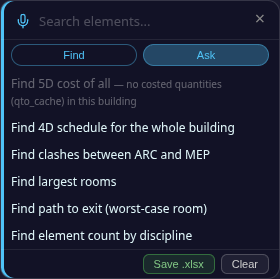
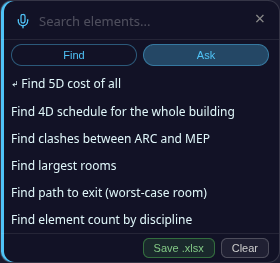
docs(AskFirstSteps): add the cost step — live cost now works (bim-ootb #1816, §K.1) (#165)
Re-captured live on Terminal: §PATCH_QTO applied 161 rows; "cost MEP" lists exactly the four cost
sentences; "Find 5D cost of materials for MEP" = 2,038,000 (62 cost rows, 9,733 elements), equal
to SUM(material_cost) over the live Terminal_extracted.db MEP rows.

Claude-Session: https://claude.ai/code/session_013GntdQuxdqS9DUqUmQP5Rb

diff --git a/scripts/docs_capture_ask_first_steps.js b/scripts/docs_capture_ask_first_steps.js
@@ -66,30 +66,37 @@ const report = { url: URL_, at: new Date().toISOString(), steps: {} };
     report.steps.ask = await page.evaluate(() => Array.from(document.querySelectorAll('#find-ask-catalog .ask-q')).map(e => e.textContent));
     log('§DOCS_STEP3 ' + JSON.stringify(report.steps.ask));
     await shot('3-ask-list', '#find-panel');
-    // Step 4 — type "clash ARC MEP", click "Find clashes between ARC and MEP"
+    // Step 4 — type "cost MEP", click "Find 5D cost of materials for MEP" (needs the §K.1 cost patch live)
+    report.steps.costList = await type('cost MEP');
+    log('§DOCS_STEP4 ' + JSON.stringify(report.steps.costList));
+    await shot('4-cost-list', '#find-panel');
+    report.steps.cost = await runSentence('Find 5D cost of materials for MEP');
+    log('§DOCS_STEP4b ' + JSON.stringify(report.steps.cost));
+    await shot('5-cost-card', '#find-panel');
+    // Step 5 — type "clash ARC MEP", click "Find clashes between ARC and MEP"
     report.steps.clashList = await type('clash ARC MEP');
-    log('§DOCS_STEP4 ' + JSON.stringify(report.steps.clashList));
-    await shot('4-clash-list', '#find-panel');
+    log('§DOCS_STEP5 ' + JSON.stringify(report.steps.clashList));
+    
     report.steps.clash = await runSentence('Find clashes between ARC and MEP');
-    log('§DOCS_STEP4b ' + JSON.stringify(report.steps.clash));
-    await shot('5-clash-card', '#find-panel');
+    log('§DOCS_STEP5b ' + JSON.stringify(report.steps.clash));
+    await shot('6-clash-card', '#find-panel');
     // Step 5 — type "exit", click the worst-case sentence
     report.steps.exitList = await type('exit');
     report.steps.exit = await runSentence('Find path to exit (worst-case room)');
     log('§DOCS_STEP5 ' + JSON.stringify(report.steps.exit));
-    await shot('6-exit-card', '#find-panel');
+    await shot('7-exit-card', '#find-panel');
     // Step 6 — type "schedule", click the whole-building sentence (generates the 4D timeline)
     report.steps.schedList = await type('schedule');
     report.steps.sched = await runSentence('Find 4D schedule for the whole building');
     log('§DOCS_STEP6 ' + JSON.stringify(report.steps.sched));
-    await shot('7-schedule-card', '#find-panel');
+    await shot('8-schedule-card', '#find-panel');
     // Step 7 — Save .xlsx
     await page.click('#find-ask-save');
     let file = null;
     for (let i = 0; i < 120 && !file; i++) { await new Promise(r => setTimeout(r, 500)); file = fs.readdirSync(dl).find(f => f.endsWith('.xlsx')); }
     report.steps.saved = file ? { file, bytes: fs.statSync(path.join(dl, file)).size } : null;
     log('§DOCS_STEP7 ' + JSON.stringify(report.steps.saved));
-    await shot('8-save', '#find-panel');
+    await shot('9-save', '#find-panel');
     fs.writeFileSync(path.join(ROOT, 'scripts', 'docs_capture_ask_first_steps.report.json'), JSON.stringify(report, null, 1));
     log('§DOCS_DONE ok');
   } catch (e) { log('§DOCS_FAIL ' + (e && e.stack || e)); process.exitCode = 1; }

diff --git a/docs/AskFirstSteps.md b/docs/AskFirstSteps.md
@@ -1,7 +1,7 @@
 # Viewer Ask — First Steps (5 minutes, no experience needed)
 *[← Back to the **BIM Viewer guide**](BIMUserGuide.md) · [Home](index.md)*
 
-One small job, start to finish: **open a building, ask three questions, save the answers, hand them to
+One small job, start to finish: **open a building, ask four questions, save the answers, hand them to
 your own AI.** Use a desktop browser (Chrome or Edge). Every step below was run by a script against the
 live site and the numbers quoted are what the app itself reported.
 
@@ -22,37 +22,43 @@ The **Find** panel opens on the right.
 
 ### Step 3 — Click **Ask**
 
-A list of questions appears. Greyed lines are not available for this building.
+A list of questions appears. Greyed lines are not available for that building.
 
 ![Ask: one question per line](img/viewer/ask-first-steps-3-ask-list.png)
 
-### Step 4 — Type `clash ARC MEP`, click the line
+### Step 4 — Type `cost MEP`, click **Find 5D cost of materials for MEP**
 
-The list narrows to **Find clashes between ARC and MEP**. Click it. An answer card appears:
-*114 mesh-level clashes (200 box overlaps: 86 cleared by the shape tests).*
+The list narrows to four cost lines (all, materials, labour, equipment). Click *materials*. An answer card
+appears: *2,038,000 — materials, 9,733 elements in 62 cost rows.*
 
-![The list narrowed to one question](img/viewer/ask-first-steps-4-clash-list.png)
-![The clash answer card](img/viewer/ask-first-steps-5-clash-card.png)
+![Four cost lines for MEP](img/viewer/ask-first-steps-4-cost-list.png)
+![The cost answer card](img/viewer/ask-first-steps-5-cost-card.png)
 
-### Step 5 — Type `exit`, click **Find path to exit (worst-case room)**
+### Step 5 — Type `clash ARC MEP`, click the line
 
-A second card: the best route (*105.6 m walk, 5 doors*) and *10 alternative exits*.
+A second card: *114 mesh-level clashes (200 box overlaps: 86 cleared by the shape tests).*
 
-![The escape route card](img/viewer/ask-first-steps-6-exit-card.png)
+![The clash answer card](img/viewer/ask-first-steps-6-clash-card.png)
 
-### Step 6 — Type `schedule`, click **Find 4D schedule for the whole building**
+### Step 6 — Type `exit`, click **Find path to exit (worst-case room)**
 
-Wait for it. A third card: *48,428 elements, 122 days, 9 trades, labour cost 1,721,750.*
+A third card: the best route (*105.6 m walk, 5 doors*) and *10 alternative exits*.
 
-![The 4D schedule card](img/viewer/ask-first-steps-7-schedule-card.png)
+![The escape route card](img/viewer/ask-first-steps-7-exit-card.png)
 
-### Step 7 — Click **Save .xlsx**
+### Step 7 — Type `schedule`, click **Find 4D schedule for the whole building**
 
-One file downloads (*BIM_OOTB_TerminalMerged_Answers_….xlsx*, about 26 KB), one row per answer.
+Wait for it. A fourth card: *48,428 elements, 122 days, 9 trades, labour cost 1,721,750.*
 
-![Three answers, ready to save](img/viewer/ask-first-steps-8-save.png)
+![The 4D schedule card](img/viewer/ask-first-steps-8-schedule-card.png)
 
-### Step 8 — Give the file to your own AI
+### Step 8 — Click **Save .xlsx**
+
+One file downloads (*BIM_OOTB_TerminalMerged_Answers_….xlsx*, about 30 KB), one row per answer.
+
+![Four answers, ready to save](img/viewer/ask-first-steps-9-save.png)
+
+### Step 9 — Give the file to your own AI
 
 Attach the file to ChatGPT, Claude, Gemini, or any AI you use, and paste the prompt from the file's first
 rows: *"Answer only from this workbook. For every number you state, cite the Evidence tag and the Engine
